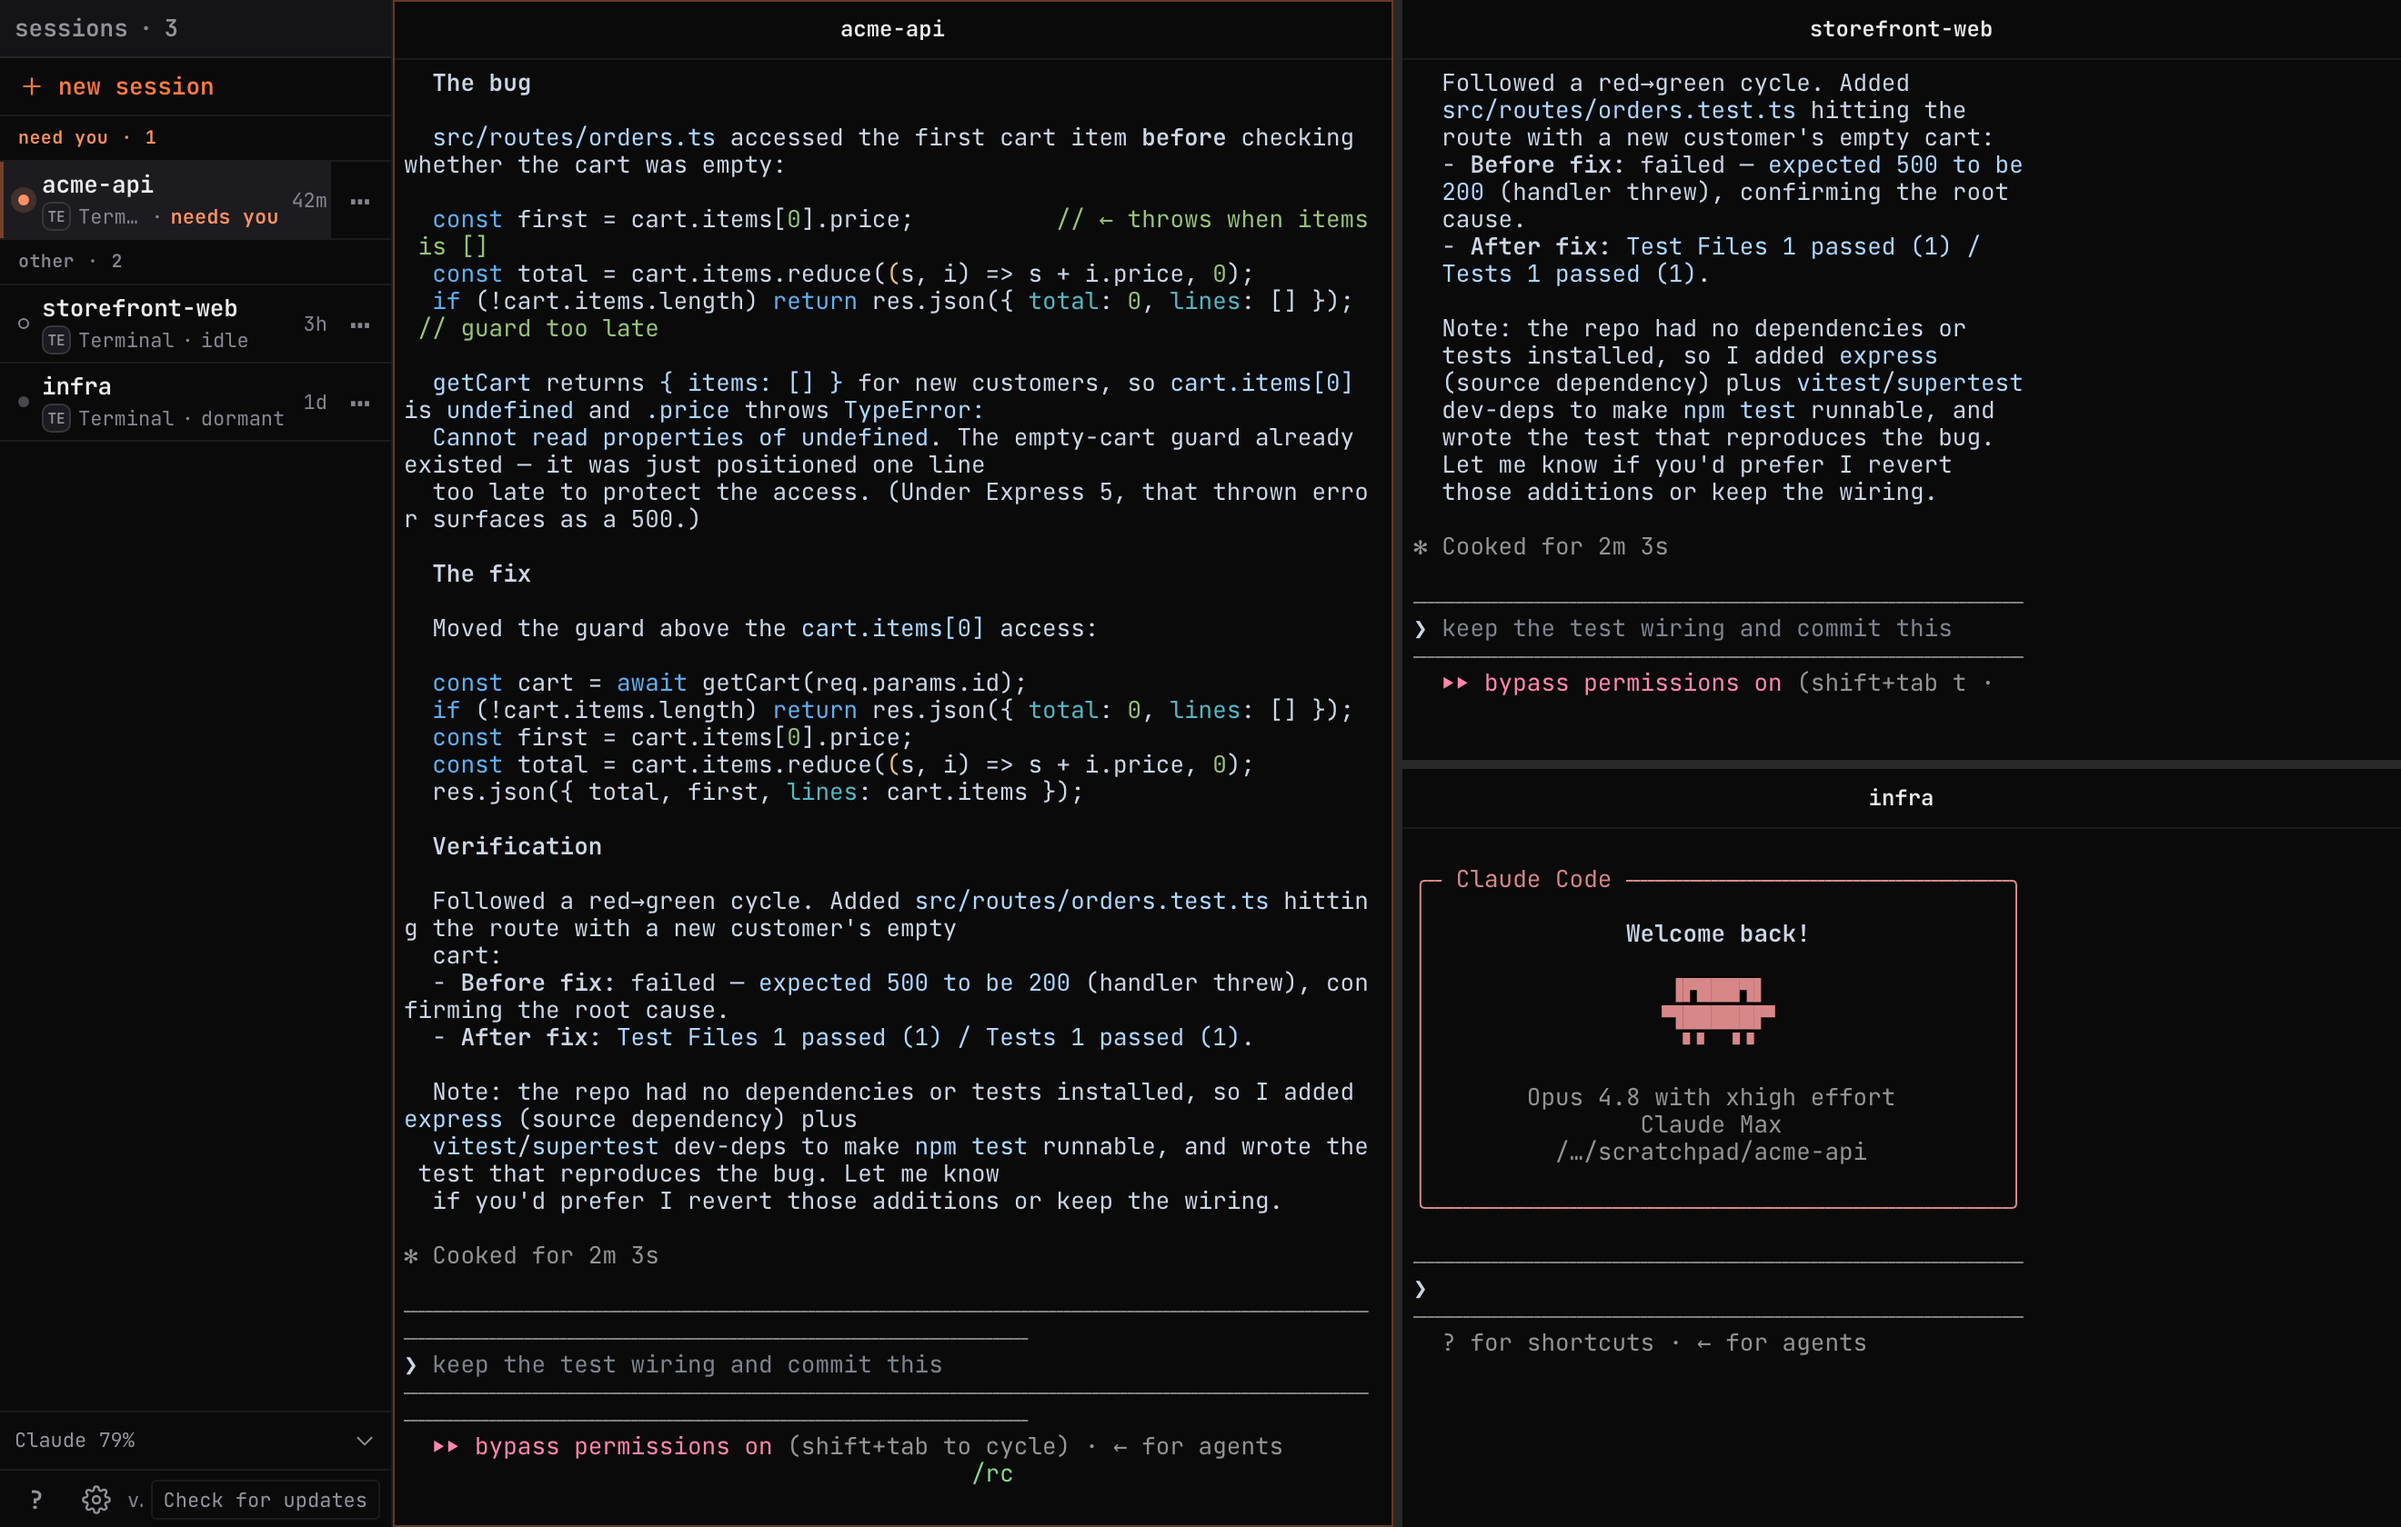
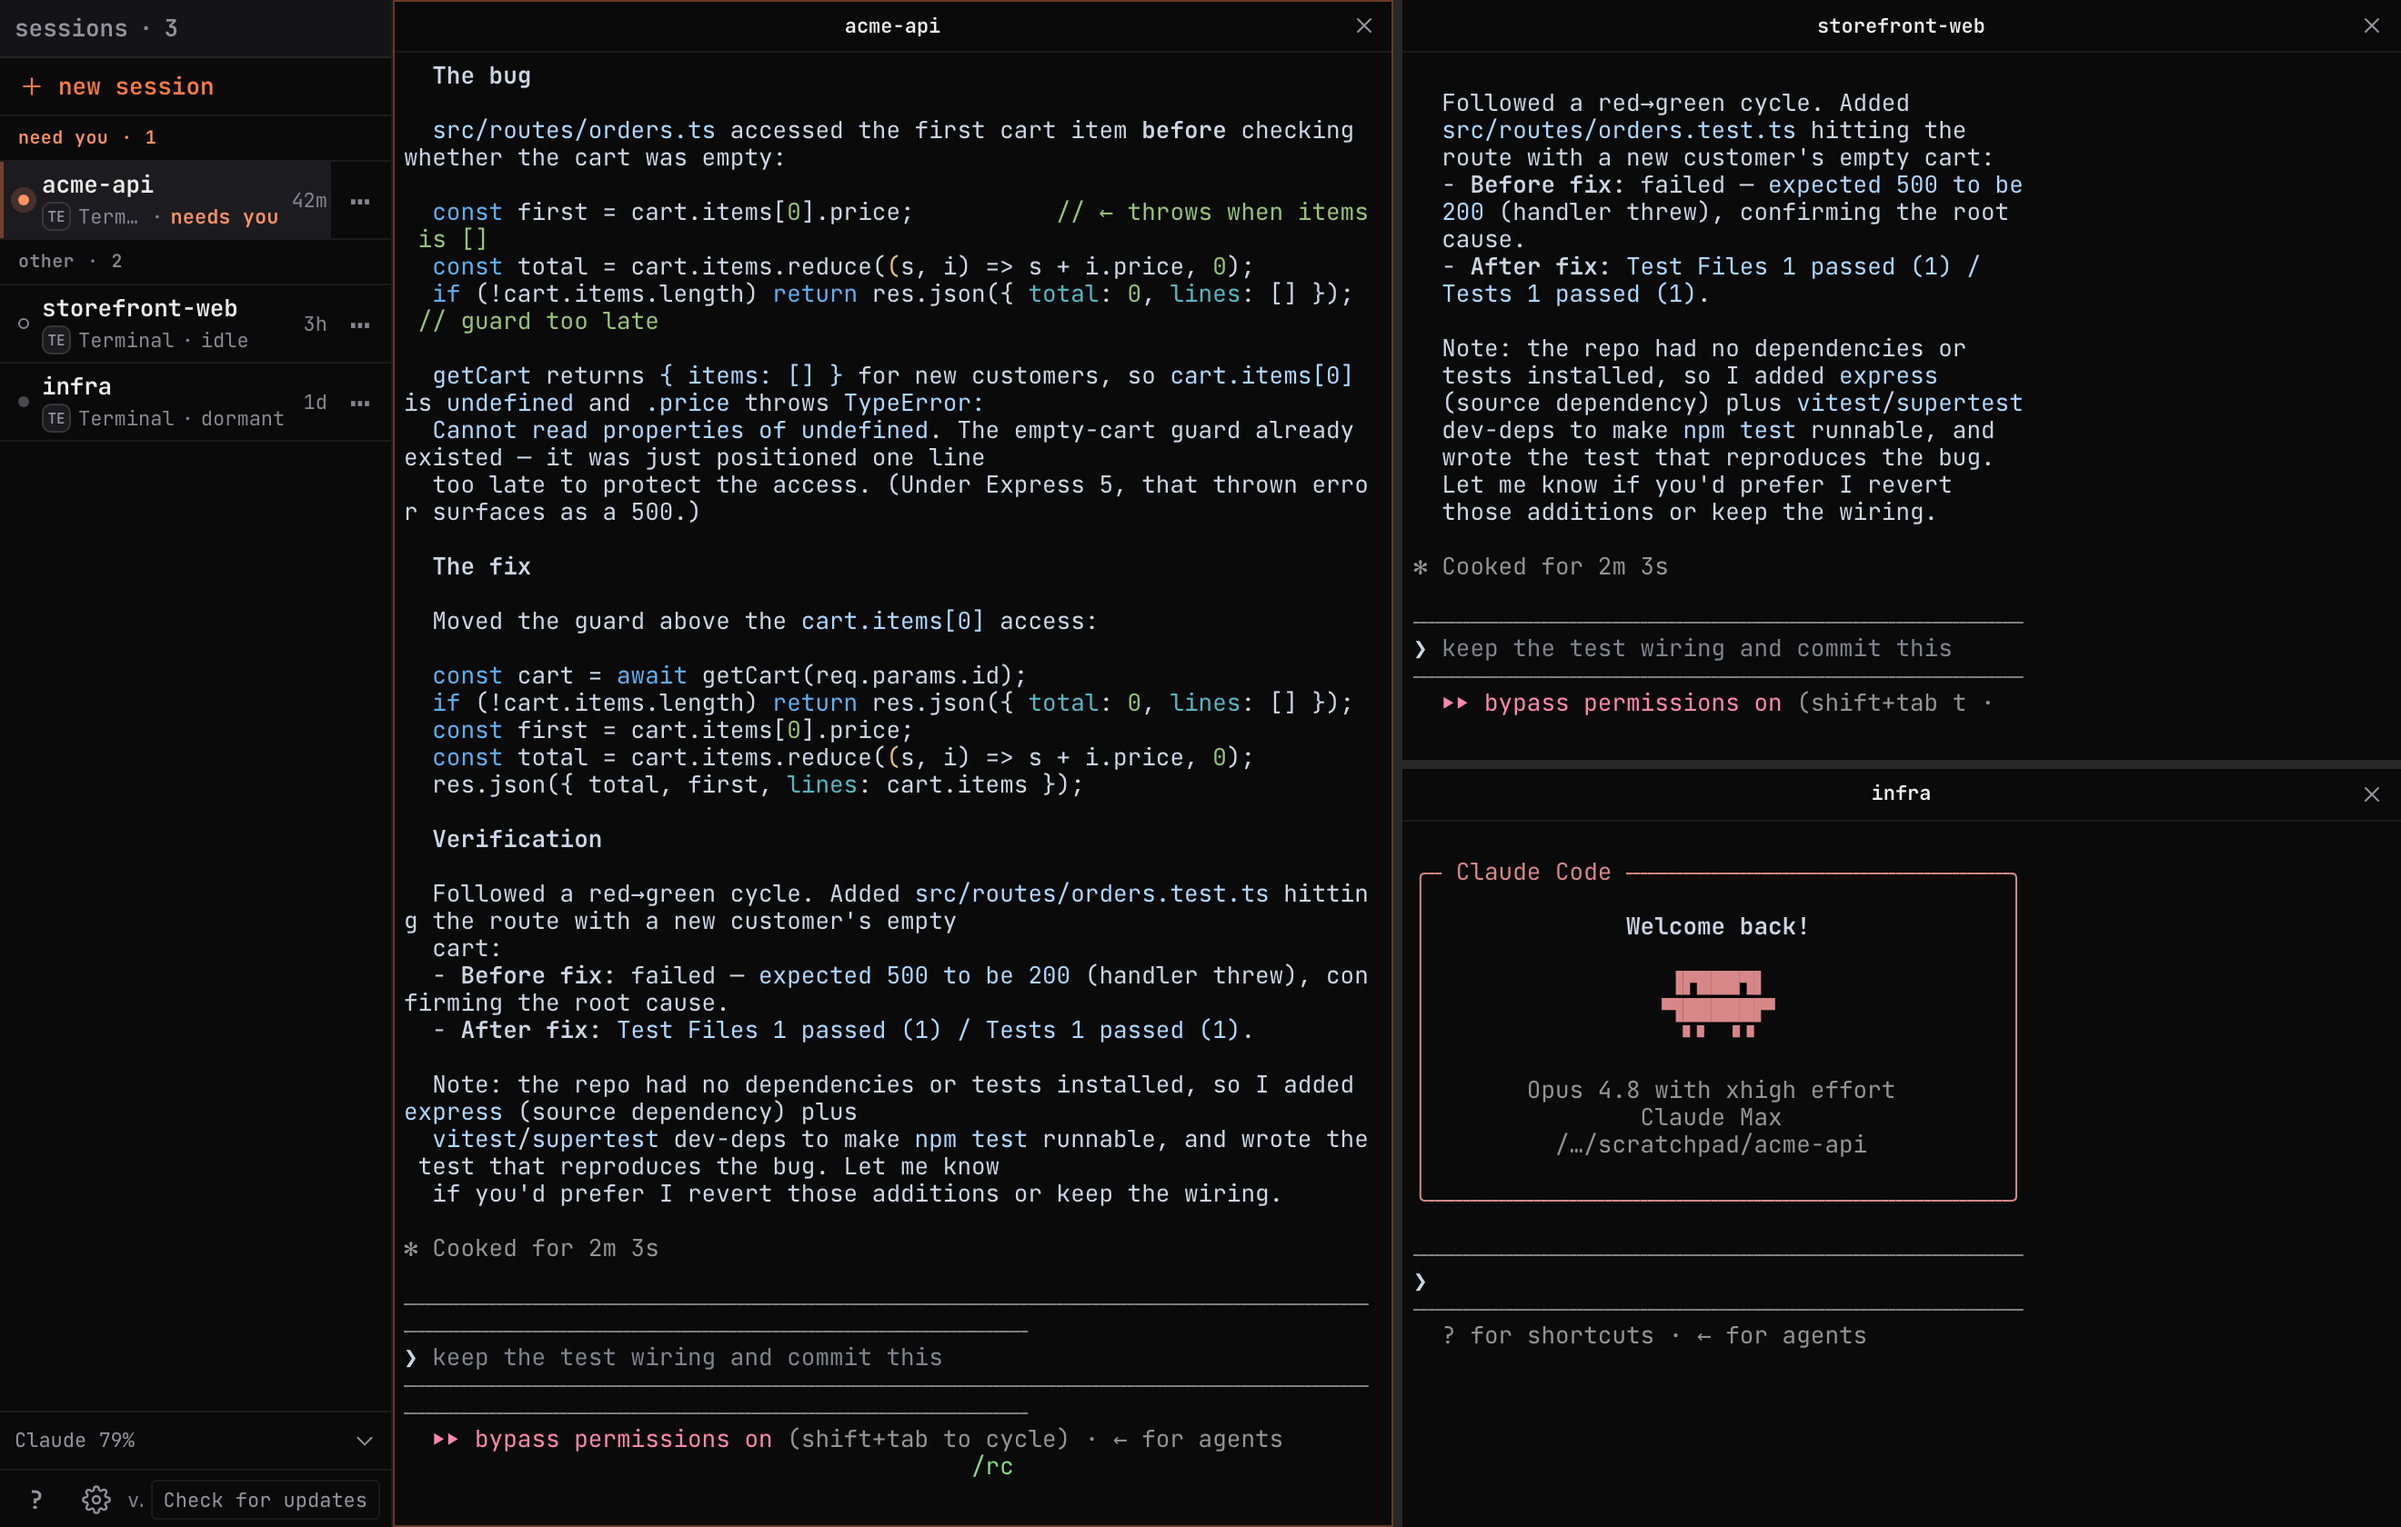
Release v4.0.22

diff --git a/packages/web/src/chat/ChatHeader.tsx b/packages/web/src/chat/ChatHeader.tsx
@@ -10,8 +10,8 @@ import { ProviderIcon } from "../providers/ProviderIcon";
 
 export interface ChatHeaderProps {
   session: SessionMeta;
-  /** Render a calm, title-only pane bar. The title is the single invisible disclosure for every
-   *  supplied action, so terminal panes keep their controls without lining the bar with icon tiles. */
+  /** Render a calm, title-only pane bar. Secondary actions stay behind the title disclosure while
+   *  the primary close action remains visible at the trailing edge. */
   titleOnly?: boolean;
   onOpenSettings?: () => void;
   /** Open the terminal Help sheet (gesture + key-bar legend). When provided, a quiet "?" button is rendered
@@ -185,8 +185,7 @@ export function ChatHeader({
     onSplitRight ||
     onSplitDown ||
     onOpenSettings ||
-    terminalTools ||
-    onClose,
+    terminalTools,
   );
 
   if (titleOnly) {
@@ -356,43 +355,55 @@ export function ChatHeader({
                   Split stacked
                 </button>
               )}
-              {onClose && (
-                <>
-                  <div className="rc-hdr-action-rule" />
-                  <button
-                    type="button"
-                    role="menuitem"
-                    className="rc-hdr-action-item is-danger"
-                    onClick={() => runTitleAction(onClose)}
-                  >
-                    {closeIsPane ? "Close pane" : "Close session"}
-                  </button>
-                </>
-              )}
             </div>
           )}
         </div>
-        {onShowSessions && <span className="rc-hdr-title-balance" aria-hidden="true" />}
+        {onClose && (
+          <button
+            type="button"
+            className="rc-hdr-title-close"
+            onClick={onClose}
+            aria-label={closeIsPane ? "Close pane" : "Close session"}
+            title={closeIsPane ? "Close pane" : "Close session"}
+          >
+            <Icon name="x" size={14} />
+          </button>
+        )}
         <style>{`
           .rc-chat-header--title-only {
-            position: relative; display: flex; align-items: center;
-            min-height: calc(32px + env(safe-area-inset-top, 0px));
-            padding: env(safe-area-inset-top, 0px) 8px 0;
+            --rc-titlebar-h: 28px; --rc-titlebar-edge: 28px;
+            position: relative; display: grid; align-items: center;
+            min-height: calc(var(--rc-titlebar-h) + env(safe-area-inset-top, 0px));
+            padding: env(safe-area-inset-top, 0px) 0 0;
             border-bottom: 1px solid var(--border); background: var(--bg);
           }
-          .rc-hdr-title-sessions, .rc-hdr-title-balance { display: none; }
-          .rc-hdr-title-sessions { position: relative; }
+          .rc-hdr-title-sessions, .rc-hdr-title-close {
+            position: absolute; top: env(safe-area-inset-top, 0px);
+            width: var(--rc-titlebar-edge); height: var(--rc-titlebar-h); padding: 0;
+            place-items: center; border: 0; border-radius: 0;
+            background: transparent; color: var(--text-muted); cursor: pointer;
+          }
+          .rc-hdr-title-sessions { display: none; left: 2px; }
+          .rc-hdr-title-close { display: grid; right: 2px; }
+          .rc-hdr-title-sessions:hover, .rc-hdr-title-sessions:active { color: var(--text); background: var(--surface-2); }
+          .rc-hdr-title-close:hover, .rc-hdr-title-close:active { color: var(--danger, var(--coral)); background: var(--surface-2); }
+          .rc-hdr-title-sessions:focus-visible, .rc-hdr-title-close:focus-visible {
+            outline: var(--focus-ring); outline-offset: -3px; border-radius: var(--radius-sm);
+          }
           .rc-hdr-title-sessions__badge {
             position: absolute; top: 3px; right: 1px; min-width: 16px; height: 16px; padding: 0 4px;
             display: grid; place-items: center; border: 2px solid var(--bg); border-radius: 999px;
             background: var(--coral); color: var(--on-accent); font: 700 9px/1 var(--font-mono);
           }
-          .rc-hdr-title-wrap { position: relative; min-width: 0; flex: 1; }
+          .rc-hdr-title-wrap {
+            position: relative; min-width: 0;
+            margin-inline: calc(var(--rc-titlebar-edge) + 2px);
+          }
           .rc-hdr-title-trigger, .rc-hdr-title-label {
-            width: 100%; min-height: 32px; padding: 0 8px;
+            width: 100%; min-height: var(--rc-titlebar-h); padding: 0 6px;
             display: flex; align-items: center; justify-content: center;
             overflow: hidden; border: 0; border-radius: 0; background: transparent;
-            color: var(--text); font: 600 12px/1 var(--font-mono); letter-spacing: 0;
+            color: var(--text); font: 600 11px/1 var(--font-mono); letter-spacing: 0;
             text-align: center;
           }
           .rc-hdr-title-trigger { cursor: pointer; }
@@ -419,7 +430,6 @@ export function ChatHeader({
           }
           .rc-hdr-action-item:hover, .rc-hdr-action-item:active { background: var(--surface-3); }
           .rc-hdr-action-item.is-on { color: var(--coral); }
-          .rc-hdr-action-item.is-danger { color: var(--danger, var(--coral)); }
           .rc-hdr-action-item strong {
             color: var(--text-faint); font: 600 var(--fs-xs)/1 var(--font-mono);
           }
@@ -439,24 +449,17 @@ export function ChatHeader({
           }
           .rc-hdr-action-font button:hover, .rc-hdr-action-font button:active { background: var(--surface-3); }
           .rc-hdr-action-font button:disabled { opacity: .35; cursor: default; }
-          @media (max-width: 767px) {
-            .rc-chat-header--title-only { min-height: calc(var(--tap-min) + env(safe-area-inset-top, 0px)); }
-            .rc-hdr-title-sessions, .rc-hdr-title-balance {
-              width: var(--tap-min); height: var(--tap-min); flex: none;
-            }
-            .rc-hdr-title-sessions {
-              display: grid; place-items: center; padding: 0; border: 0; border-radius: 0;
-              background: transparent; color: var(--text-muted); cursor: pointer;
-            }
-            .rc-hdr-title-sessions:hover, .rc-hdr-title-sessions:active { color: var(--text); }
-            .rc-hdr-title-sessions:focus-visible {
-              outline: var(--focus-ring); outline-offset: -3px; border-radius: var(--radius-sm);
-            }
-            .rc-hdr-title-balance { display: block; }
-            .rc-hdr-title-trigger, .rc-hdr-title-label { min-height: var(--tap-min); font-size: 13px; }
+          @media (pointer: coarse) {
+            .rc-chat-header--title-only { --rc-titlebar-h: var(--tap-min); --rc-titlebar-edge: var(--tap-min); }
+            .rc-hdr-title-trigger, .rc-hdr-title-label { font-size: 12px; }
             .rc-hdr-action-item { min-height: var(--tap-min); }
             .rc-hdr-action-font { min-height: var(--tap-min); grid-template-columns: 1fr var(--tap-min) 34px var(--tap-min); }
             .rc-hdr-action-font button { width: var(--tap-min); height: var(--tap-min); }
+          }
+          @media (max-width: 767px) {
+            .rc-hdr-title-sessions {
+              display: grid;
+            }
           }
           @media (prefers-reduced-motion: reduce) { .rc-hdr-title-trigger { transition: none; } }
         `}</style>

diff --git a/packages/web/src/chat/ChatHeader.test.tsx b/packages/web/src/chat/ChatHeader.test.tsx
@@ -29,22 +29,33 @@ describe("ChatHeader", () => {
     });
   });
 
-  it("renders terminal panes as a title-only bar with every action in one menu", async () => {
+  it("keeps close visible beside the compact terminal action menu", async () => {
     const onShowSessions = vi.fn();
     const onClose = vi.fn();
-    render(<ChatHeader session={session} titleOnly onShowSessions={onShowSessions} needsYou={2} onClose={onClose} />);
+    render(
+      <ChatHeader
+        session={session}
+        titleOnly
+        onShowSessions={onShowSessions}
+        needsYou={2}
+        onOpenFiles={() => {}}
+        onClose={onClose}
+      />,
+    );
 
     const header = screen.getByLabelText("Session overrun");
     expect(header).toHaveClass("rc-chat-header--title-only");
     expect(screen.getByText("overrun")).toBeVisible();
     screen.getByLabelText("Show sessions, 2 need you").click();
     expect(onShowSessions).toHaveBeenCalledOnce();
-    expect(screen.queryByRole("button", { name: "Close session" })).toBeNull();
+    const close = screen.getByRole("button", { name: "Close session" });
+    expect(close).toBeVisible();
 
     await userEvent.click(screen.getByRole("button", { name: "Open session actions" }));
     expect(screen.getByRole("menu", { name: "Session actions" })).toBeVisible();
     expect(screen.queryByRole("menuitem", { name: /sessions/i })).toBeNull();
-    await userEvent.click(screen.getByRole("menuitem", { name: "Close session" }));
+    expect(screen.queryByRole("menuitem", { name: "Close session" })).toBeNull();
+    await userEvent.click(close);
     expect(onClose).toHaveBeenCalledOnce();
   });
 

diff --git a/CHANGELOG.md b/CHANGELOG.md
@@ -7,6 +7,13 @@ The format loosely follows [Keep a Changelog](https://keepachangelog.com/); date
 
 ## [Unreleased]
 
+## [4.0.22] - 2026-08-12
+
+### Changed
+
+- Keep the terminal session or pane close control visible in a slimmer title bar instead of hiding it inside the
+  session-actions menu.
+
 ## [4.0.21] - 2026-08-12
 
 ### Changed
